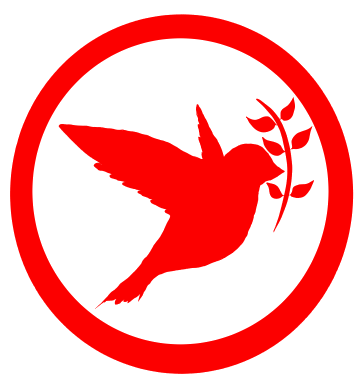
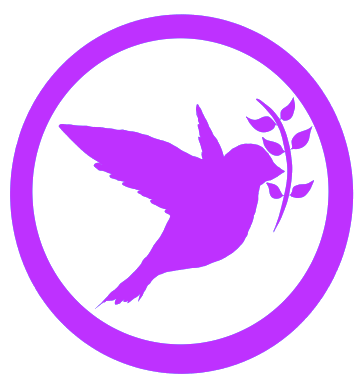
updated colors and copy

diff --git a/index.html b/index.html
@@ -3,7 +3,7 @@
 <head>
   <meta charset="UTF-8">
   <meta name="viewport" content="width=device-width, initial-scale=1.0, maximum-scale=1.0, user-scalable=0">
-  <title>Home - Public Outreach Initiative</title>
+  <title>Home - Jon's Blessings</title>
   <link href="https://cdn.jsdelivr.net/npm/bootstrap@5.1.0/dist/css/bootstrap.min.css" rel="stylesheet">
 <link rel="stylesheet" href="styles.css">
 </head>
@@ -76,10 +76,10 @@ document.addEventListener('DOMContentLoaded', function() {
           <p><br></p>
           <div style="text-align:center;">
             <b><p>Jon's Blessings is a Christian non-profit dedicated to extending
-              warmth, care, and the love of Christ to those experiencing homelessness.</p>
+              warmth, care, and the Good News of Jesus Christ to those experiencing homelessness.</p>
             <p ></p></b></div>
           <br><p></p>
-          <a href="index.html#contact" class="bg-burnt-orange" style="background-color: rgb(160, 13, 171);">Learn More</a>
+          <a href="index.html#contact" class="bg-burnt-orange" style="background-color: #9619b2;">Learn More</a>
         </div>
       </section>
       
@@ -93,32 +93,21 @@ document.addEventListener('DOMContentLoaded', function() {
             <section class="card-section">
               <div class="card">
                 <img src="./assets/outreach.png" alt="Graphic 1">
-                <h2 class="blocky-text" style="color:#de1010;">Outreach</h2>
-                <p style="color:#201e1e;">Through our mission, we provide essential blankets and clothing to shield
+                <h2 class="blocky-text" style="color:#9619b2;">Outreach</h2>
+                <p style="color:#201e1e;">Jon's Blessings provides essential blankets and clothing to shield
                   against the harshness of the streets, while also fostering connections to
                   shelters and local churches where individuals can find support, community,
-                  and spiritual nourishment. Additionally, we offer the gift of God's Word,
-                  distributing Bibles to those who seek out light. Together, through acts of
-                  service and faith, we strive to make a tangible difference in the lives of those
-                  in need, spreading light in the darkness and embodying the spirit of Jon's
-                  Blessings.
+                  and spiritual nourishment.
                 </p>
               </div>
-              <div class="card">
-                <img src="./assets/education_symbol.png" alt="Graphic 2">
-                <h2 class="blocky-text" style="color:#de1010;">Education</h2>
-                <p style="color:#201e1e;">Navigating the political and digital landscapes alike can be very confusing.
-                  We provide resources and educational material to help activists and everyday 
-                  people alike make informed decisions for their local and state governments.
-                </p>
-              </div>
+              
               <div class="card">
                 <img src="./assets/representation_symbol.png" alt="Graphic 3">
-                <h2 class="blocky-text" style="color:#de1010;">Representation</h2>
-                <p style="color:#201e1e;">Many Americans feel that politicians and pundits alike do not represent them 
-                  or understand them.  We are looking to change that by giving people the tools
-                  and knowledge needed to represent their own communities in the political arena
-                  regardless of their political affiliations. 
+                <h2 class="blocky-text" style="color:#9619b2;">Prayer</h2>
+                <p style="color:#201e1e;">We offer the gift of God's Word,
+                  distributing Bibles to those who seek out light. Together, through acts of
+                  service and faith, we strive to make a tangible difference in the lives of those
+                  in need, spreading light in the darkness and embodying the spirit of the gospel.
                 </p>
               </div>
             </section>
@@ -279,7 +268,7 @@ change that.</p>
       </section>
           
   </main>
-  <footer class="text-white text-center py-4" style="background-color: #b30418; min-height:9px;max-height:12px;">
+  <footer class="text-white text-center py-4" style="background-color: #960b92; min-height:9px;max-height:12px;">
     <p>Copyright 2024  Jon's Blessings Incorporated - Oregon, USA</p>
   </footer>
   
@@ -351,7 +340,7 @@ function init() {
 
 // Random color generator from the specified shades
 function randomColor() {
-  const colors = ['red', 'blue', '#0096FF'];
+  const colors = ['#960b92', 'blue', '#0096FF'];
   return colors[Math.floor(Math.random() * colors.length)];
 }
 

diff --git a/store_redirect.html b/store_redirect.html
@@ -2,7 +2,7 @@
 <html lang="en">
 <head>
   <meta charset="UTF-8">
-  <title>POI - Coming Soon</title>
+  <title>Store - Jon's Blessings</title>
   <link href="https://cdn.jsdelivr.net/npm/bootstrap@5.1.0/dist/css/bootstrap.min.css" rel="stylesheet">
 <link rel="stylesheet" href="styles.css">
 </head>
@@ -64,7 +64,7 @@
       <div class="container-fluid">
         <a class="navbar-brand d-flex align-items-center" href="index.html#">
           <img src="./assets/dove_branch_red_alpha.png" alt="Phoenix Rising Logo" width="45" height="45" class="d-inline-block align-top mr-2">
-          <b>Public Outreach Initiative</b>
+          <b>Jon's Blessings</b>
         </a>
         <button class="navbar-toggler" type="button" data-toggle="collapse" data-target="#navbarNav" aria-controls="navbarNav" aria-expanded="false" aria-label="Toggle navigation">
           <span class="navbar-toggler-icon"></span>
@@ -76,7 +76,7 @@
               <a class="nav-link" href="index.html#who-are-we">Our Mission</a>
             </li>
             <li class="nav-item">
-              <a class="nav-link" href="comingsoon.html#">Merch</a>
+              <a class="nav-link" href="store_redirect.html#">Merch</a>
             </li>
             
             <li class="nav-item">
@@ -125,46 +125,22 @@ menuItems.forEach(function(item) {
     <section id="services" class="container">
         <div class="container">
             <img src="./assets/dove_branch_red_alpha.png" alt="Logo" class="logo">
-            <h1>Coming Soon</h1>
-            <p>We are working on something awesome!</p>
-            <div class="countdown" id="countdown"></div>
-            <a href="#" class="btn">Notify Me</a>
+            <h1>One Moment . . .</h1>
+            <p>You are being redirected to store.jonsblessings.org</p>
+            
           </div>
         <br><p><br></p>
-          <script>
-            // Set the date we're counting down to
-            var countDownDate = new Date("Dec 31, 2024 00:00:00").getTime();
-        
-            // Update the countdown every 1 second
-            var x = setInterval(function() {
-              // Get the current date and time
-              var now = new Date().getTime();
-        
-              // Calculate the distance between now and the countdown date
-              var distance = countDownDate - now;
-        
-              // Calculate days, hours, minutes, and seconds
-              var days = Math.floor(distance / (1000 * 60 * 60 * 24));
-              var hours = Math.floor((distance % (1000 * 60 * 60 * 24)) / (1000 * 60 * 60));
-              var minutes = Math.floor((distance % (1000 * 60 * 60)) / (1000 * 60));
-              var seconds = Math.floor((distance % (1000 * 60)) / 1000);
-        
-              // Display the countdown
-              document.getElementById("countdown").innerHTML = days + "d " + hours + "h " + minutes + "m " + seconds + "s ";
-        
-              // If the countdown is over, display a message
-              if (distance < 0) {
-                clearInterval(x);
-                document.getElementById("countdown").innerHTML = "EXPIRED";
-              }
-            }, 1000);
-          </script>
+        <script type="text/javascript">
+          setTimeout(function() {
+              window.location.href = "https://store.jonsblessings.org";
+          }, 2500);
+      </script>
     </section>
     <hr class="thick-hr">
 
     
   </main>
-  <footer class="text-white text-center py-4" style="background-color: #b30418; min-height:9px;max-height:12px;position:fixed;bottom:0;left:0;right:0;height:30px; ">
+  <footer class="text-white text-center py-4" style="background-color: #960b92; min-height:9px;max-height:12px;position:fixed;bottom:0;left:0;right:0;height:30px; ">
     <p>Copyright Public Outreach Initiative Inc. - Oregon, USA</p>
   </footer>
   

diff --git a/donate.html b/donate.html
@@ -2,7 +2,7 @@
 <html lang="en">
 <head>
   <meta charset="UTF-8">
-  <title>Donate - Public Outreach Initiative</title>
+  <title>Donate - Jon's Blessings</title>
   <link href="https://cdn.jsdelivr.net/npm/bootstrap@5.1.0/dist/css/bootstrap.min.css" rel="stylesheet">
 <link rel="stylesheet" href="styles.css">
 </head>
@@ -11,7 +11,7 @@
     <div class="container-fluid">
       <a class="navbar-brand d-flex align-items-center" href="index.html#">
         <img src="./assets/dove_branch_red_alpha.png" alt="Phoenix Rising Logo" width="45" height="45" class="d-inline-block align-top mr-2">
-        <b>Public Outreach Initiative</b>
+        <b>Jon's Blessings</b>
       </a>
       <button class="navbar-toggler" type="button" data-toggle="collapse" data-target="#navbarNav" aria-controls="navbarNav" aria-expanded="false" aria-label="Toggle navigation">
         <span class="navbar-toggler-icon"></span>
@@ -142,7 +142,7 @@ item.addEventListener('click', function() {
     
           
   </main>
-  <footer class="text-white text-center py-4" style="background-color: rgb(241, 0, 16); min-height:9px;max-height:12px;">
+  <footer class="text-white text-center py-4" style="background-color: #960b92; min-height:9px;max-height:12px;">
     <p>Copyright 2024 Jon's Blessings Incorporated - Oregon, USA</p>
   </footer>
   
@@ -214,7 +214,7 @@ function init() {
 
 // Random color generator from the specified shades
 function randomColor() {
-  const colors = ['red', 'blue', '#0096FF'];
+  const colors = ['#960b92', 'blue', '#0096FF'];
   return colors[Math.floor(Math.random() * colors.length)];
 }
 

diff --git a/join.html b/join.html
@@ -2,7 +2,7 @@
 <html lang="en">
 <head>
   <meta charset="UTF-8">
-  <title>Join - Public Outreach Initiative</title>
+  <title>Join - Jon's Blessings</title>
   <link href="https://cdn.jsdelivr.net/npm/bootstrap@5.1.0/dist/css/bootstrap.min.css" rel="stylesheet">
 <link rel="stylesheet" href="styles.css">
 </head>
@@ -131,7 +131,7 @@ item.addEventListener('click', function() {
     
           
   </main>
-  <footer class="text-white text-center py-4" style="background-color: #ee132d; min-height:9px;max-height:12px;">
+  <footer class="text-white text-center py-4" style="background-color: #960b92; min-height:9px;max-height:12px;">
     <p>Copyright 2024 Jon's Blessings Incorporated - Oregon, USA</p>
   </footer>
   
@@ -203,7 +203,7 @@ function init() {
 
 // Random color generator from the specified shades
 function randomColor() {
-  const colors = ['red', 'blue', '#0096FF'];
+  const colors = ['#960b92', 'blue', '#0096FF'];
   return colors[Math.floor(Math.random() * colors.length)];
 }
 

diff --git a/styles.css b/styles.css
@@ -174,7 +174,7 @@ hr {
   }
   
   .card {
-    width: calc(33.33% - 20px);
+    width: calc(45.33% - 20px);
     margin-bottom: 20px;
     padding: 20px;
     background-color: #fffbfb;
